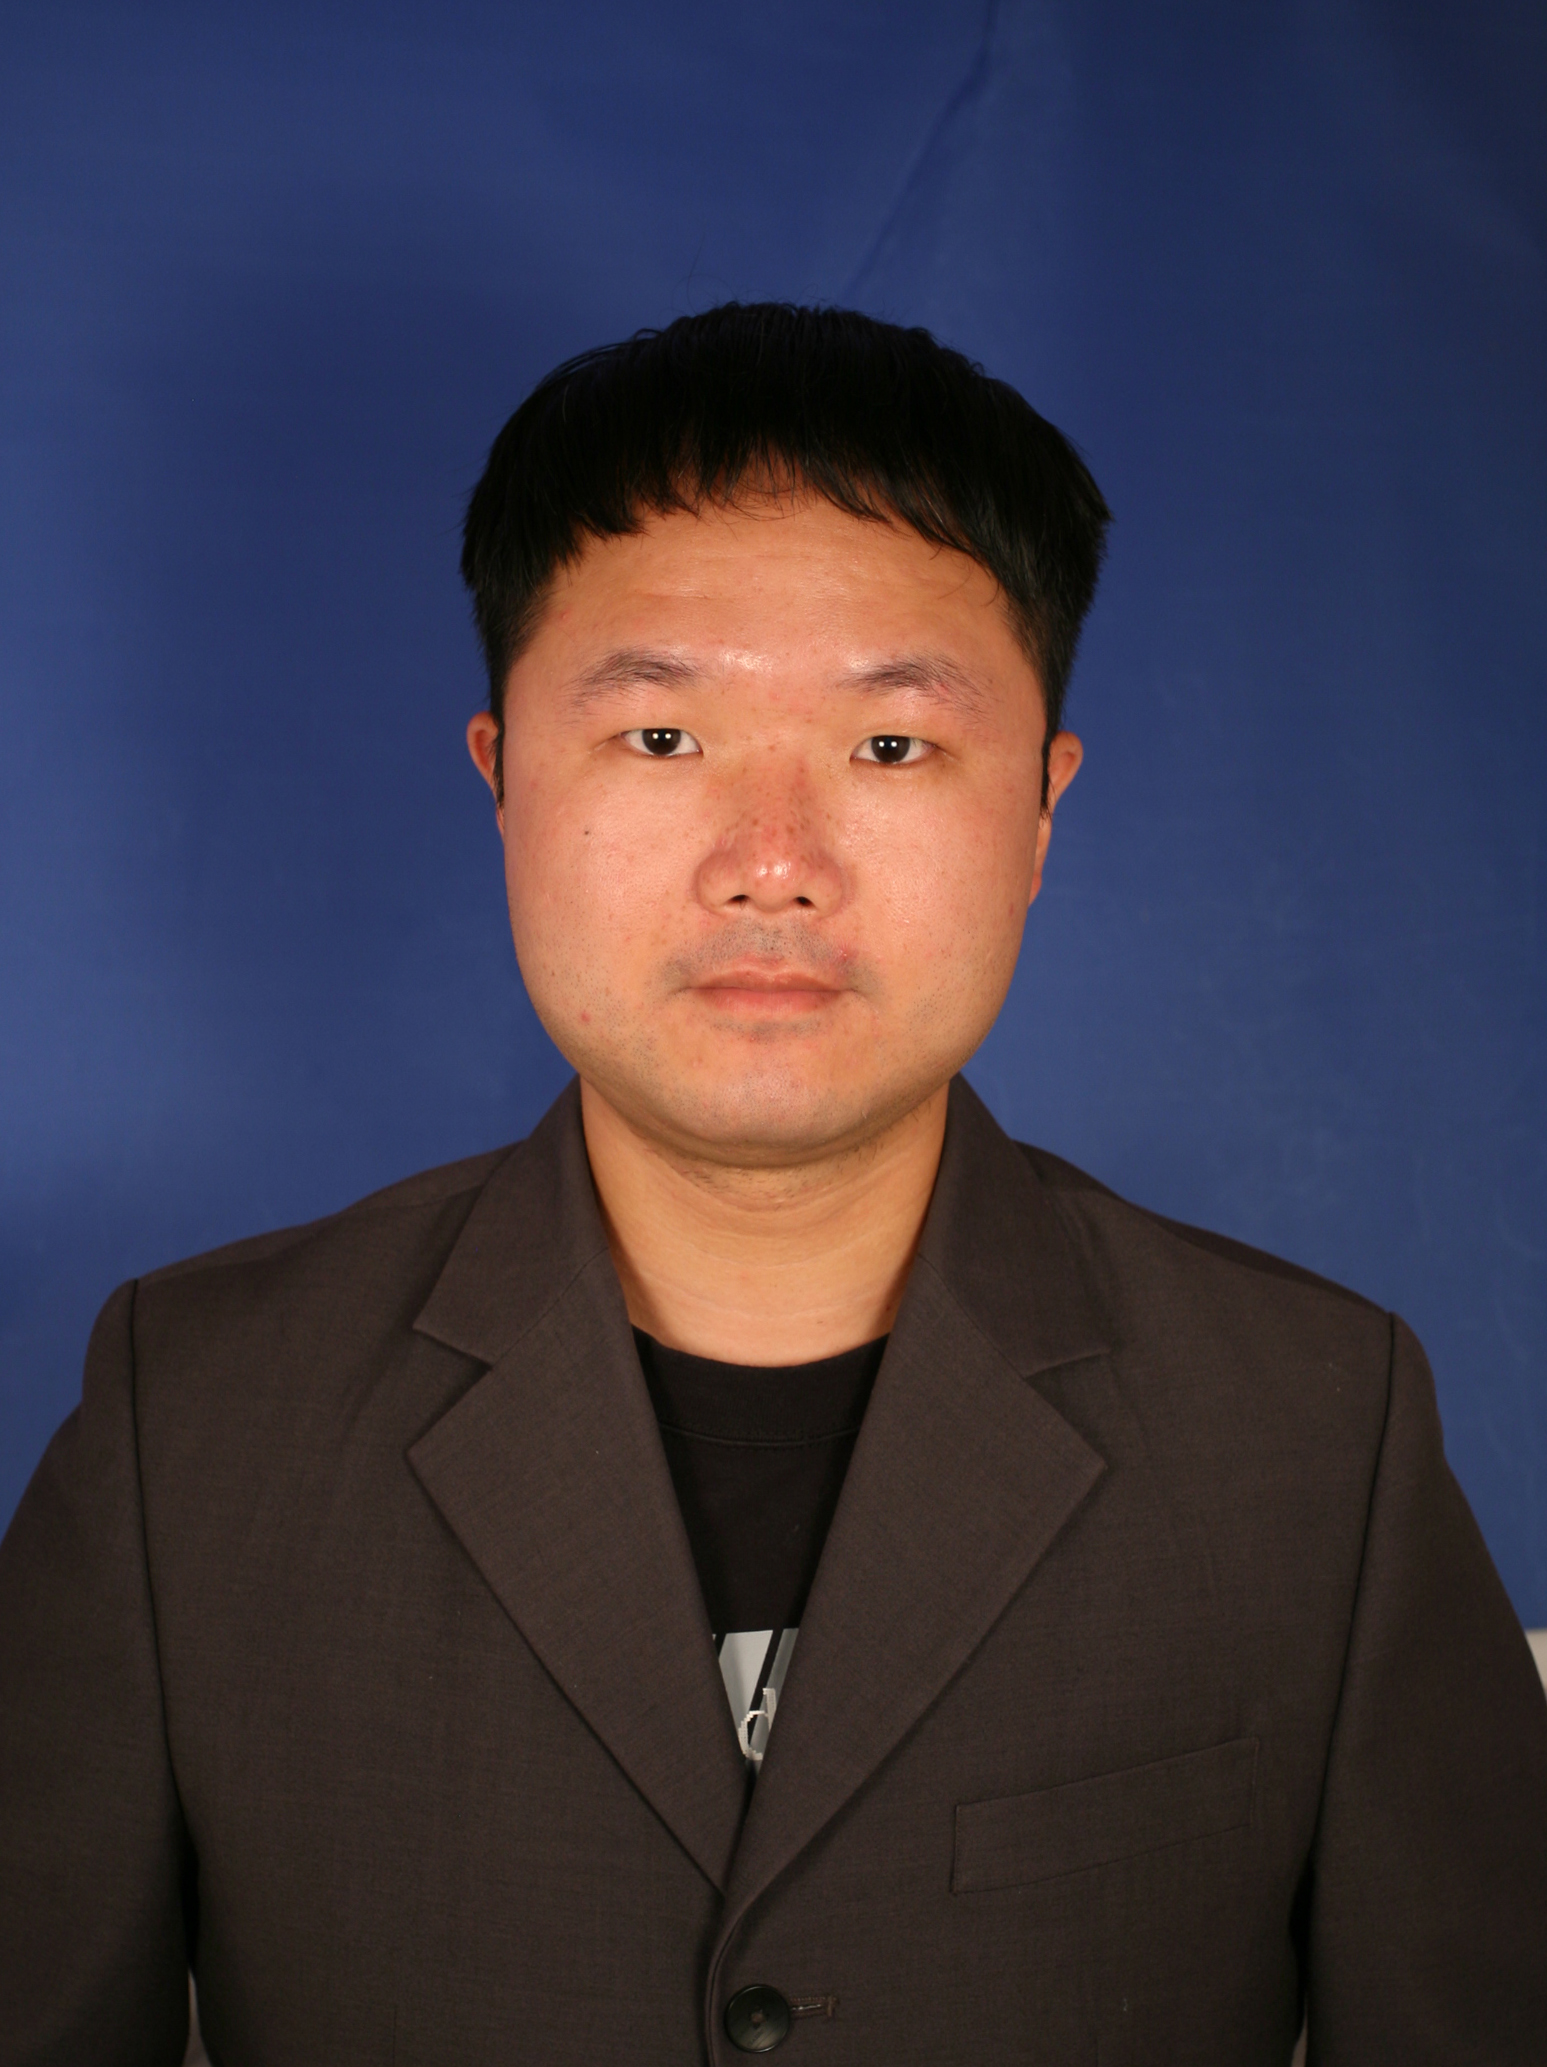
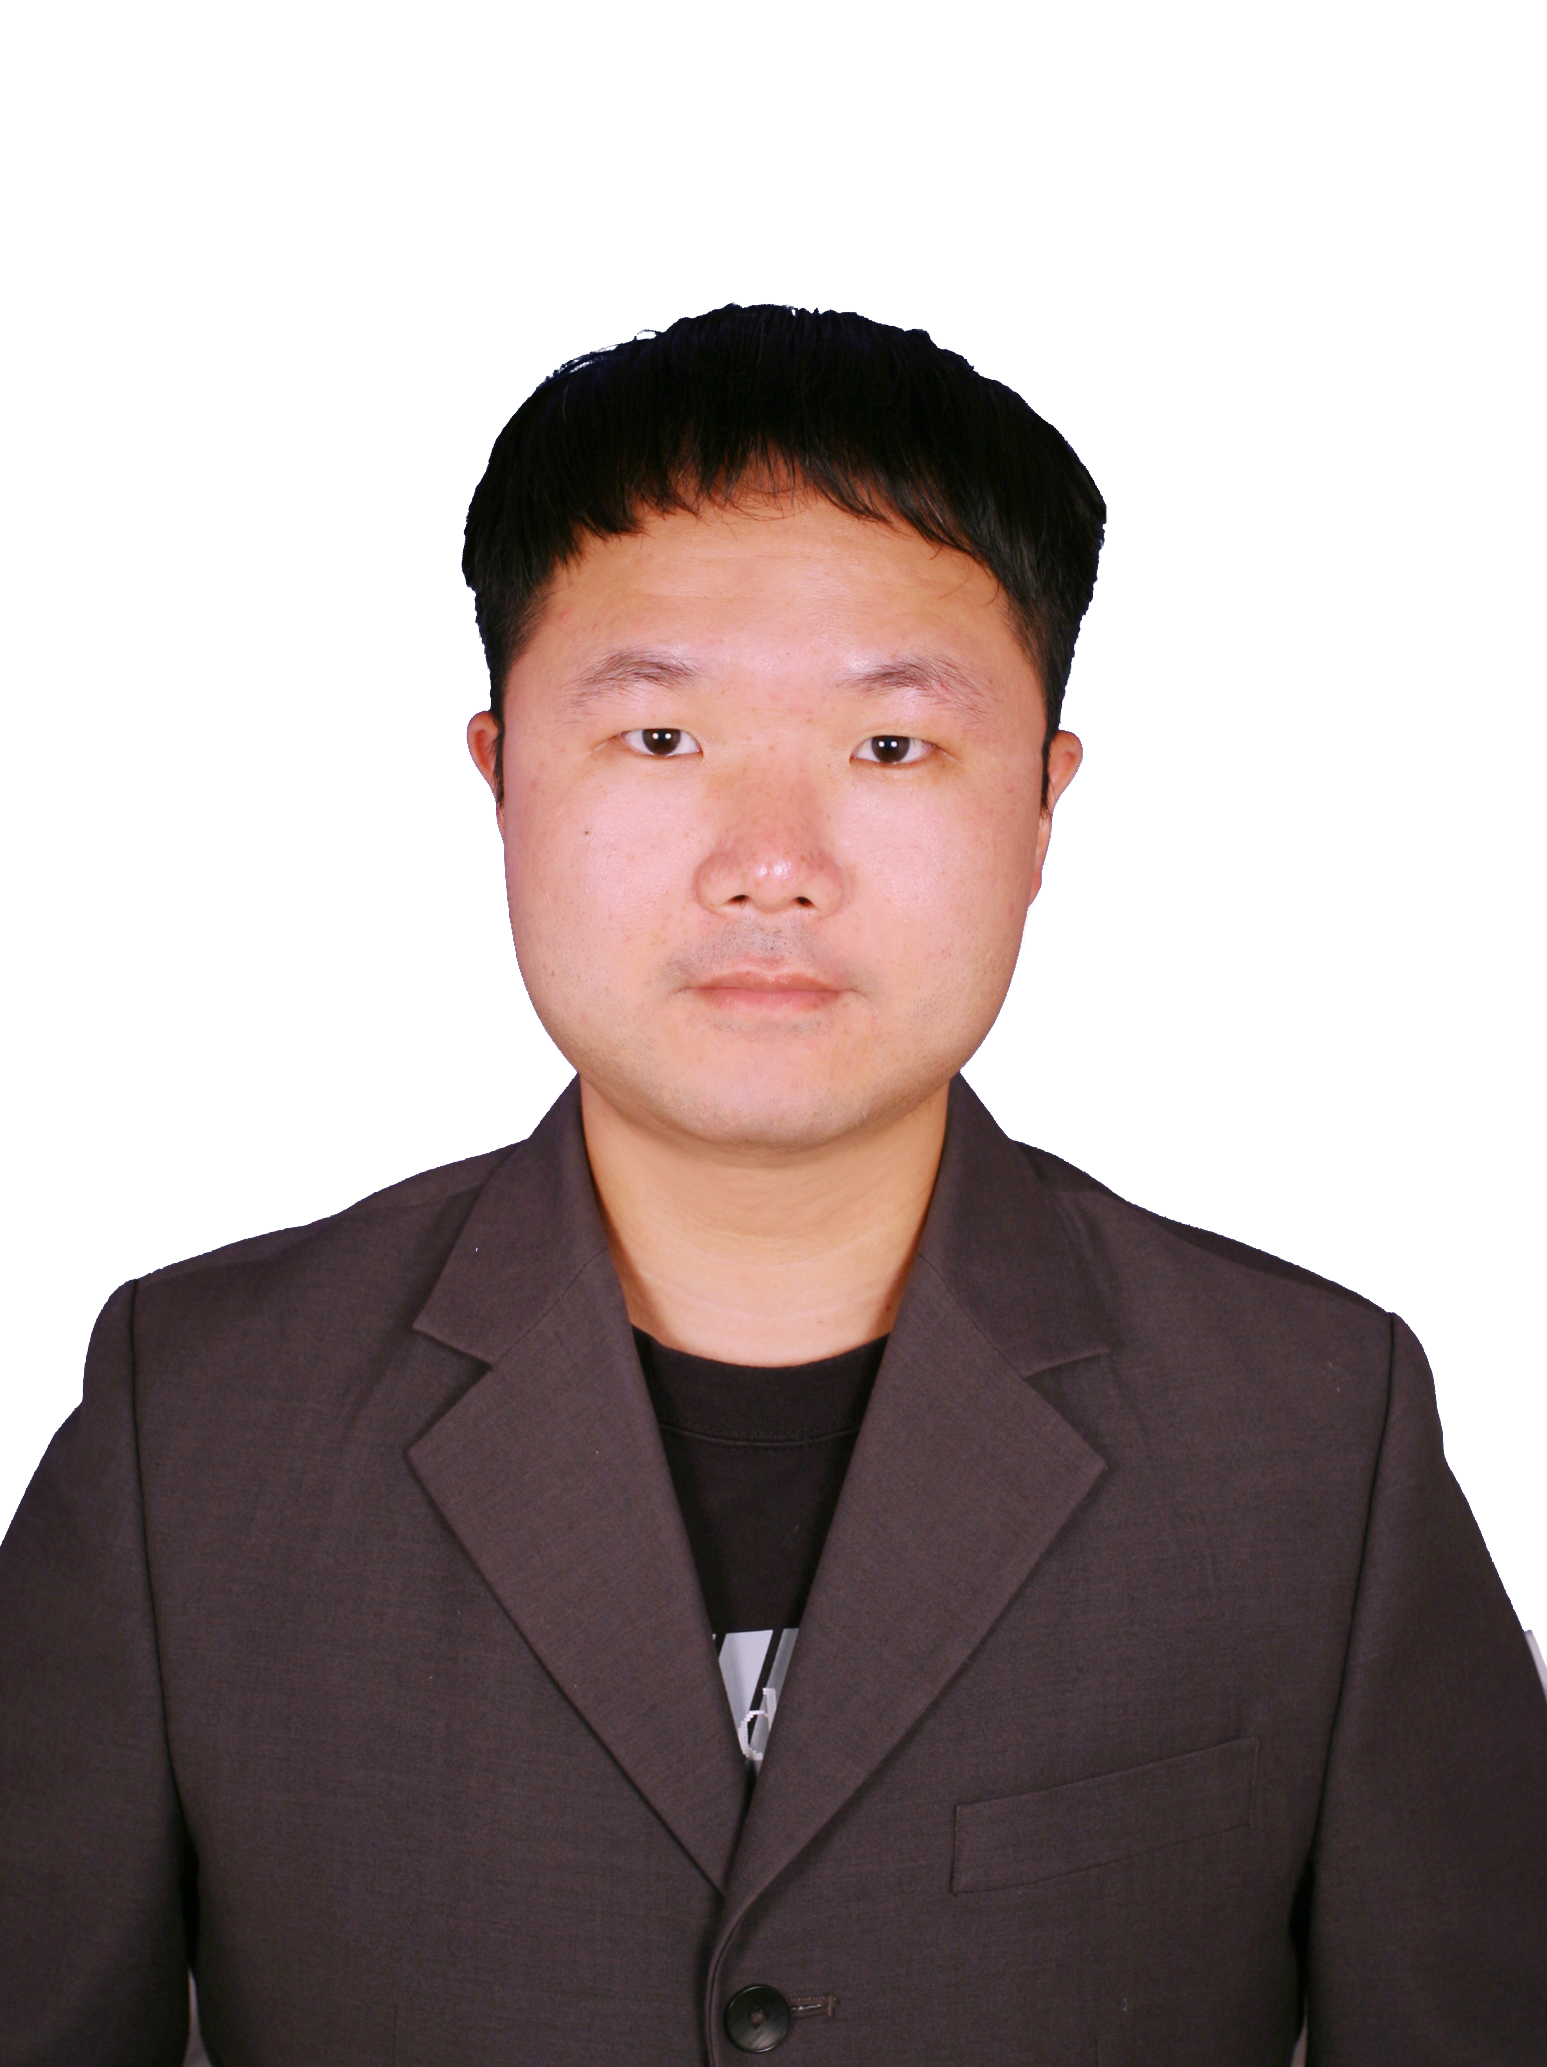
style: enhance bento aesthetics, 3D tilt, and professional profile photo

diff --git a/script.js b/script.js
@@ -1,6 +1,24 @@
 // script.js - Premium Interactive Personal Portfolio Behaviors
 
-// 1. Language Toggle & Initialization
+// 1. Typewriter Animation Helper
+function runTypewriter(el, text) {
+  el.textContent = "";
+  let i = 0;
+  if (el.typewriterInterval) {
+    clearInterval(el.typewriterInterval);
+  }
+  
+  el.typewriterInterval = setInterval(() => {
+    if (i < text.length) {
+      el.textContent += text.charAt(i);
+      i++;
+    } else {
+      clearInterval(el.typewriterInterval);
+    }
+  }, 75);
+}
+
+// 2. Language Toggle & Initialization
 function updateLanguage(lang) {
   document.documentElement.setAttribute('data-lang', lang);
   localStorage.setItem('portfolio-lang', lang);
@@ -20,20 +38,29 @@ function updateLanguage(lang) {
     }
   }
 
+  // Target the hero typewriter element specifically
+  const heroLabel = document.querySelector('.hero-card .mono-label');
+
   // Update text content for elements with data-en/data-zh attributes
   document.querySelectorAll('[data-en][data-zh]').forEach(el => {
     const translation = lang === 'en' ? el.getAttribute('data-en') : el.getAttribute('data-zh');
     
-    // For elements with HTML markup inside, or normal text
-    if (el.classList.contains('mono-label') && !translation.startsWith('> ') && !translation.startsWith('// ')) {
-      el.textContent = translation;
+    if (el === heroLabel) {
+      runTypewriter(el, translation);
     } else {
       el.textContent = translation;
     }
   });
+
+  // Reset client detail text back to current language default
+  const detailText = document.querySelector('.client-detail-text');
+  if (detailText) {
+    const defaultText = lang === 'en' ? detailText.getAttribute('data-en') : detailText.getAttribute('data-zh');
+    detailText.textContent = defaultText;
+  }
 }
 
-// Initialize Language on DOM Content Loaded
+// Initialize Language & Interactive Animations on DOM Content Loaded
 document.addEventListener('DOMContentLoaded', () => {
   const savedLang = localStorage.getItem('portfolio-lang') || 'en';
   updateLanguage(savedLang);
@@ -48,20 +75,57 @@ document.addEventListener('DOMContentLoaded', () => {
     });
   }
 
-  // 2. Mouse Tracking Glow Effects
+  // 3. Mouse Tracking Glow & 3D Tilt Effects
   const cards = document.querySelectorAll('.bento-card');
   cards.forEach(card => {
     card.addEventListener('mousemove', (e) => {
       const rect = card.getBoundingClientRect();
       const x = e.clientX - rect.left;
       const y = e.clientY - rect.top;
+      
+      // Calculate 3D perspective rotation (Only for desktop viewports)
+      if (window.innerWidth > 768) {
+        const centerX = rect.width / 2;
+        const centerY = rect.height / 2;
+        const rotateX = -(y - centerY) / (rect.height / 15); // Max ~4 degrees tilt
+        const rotateY = (x - centerX) / (rect.width / 15);
+        
+        card.style.transform = `perspective(1000px) translateY(-5px) rotateX(${rotateX}deg) rotateY(${rotateY}deg)`;
+      } else {
+        card.style.transform = 'translateY(-4px)';
+      }
+      
       card.style.setProperty('--mouse-x', `${x}px`);
       card.style.setProperty('--mouse-y', `${y}px`);
     });
+
+    card.addEventListener('mouseleave', () => {
+      card.style.transform = 'perspective(1000px) translateY(0) rotateX(0) rotateY(0)';
+    });
   });
 
-  // 3. Scroll Reveal Animation (Progressive Enhancement)
-  // Dynamically add data-reveal attribute to bento cards for animation entry
+  // 4. Client List Interactive Tooltips
+  const clientItems = document.querySelectorAll('.client-list li');
+  const detailText = document.querySelector('.client-detail-text');
+  if (detailText && clientItems.length > 0) {
+    clientItems.forEach(item => {
+      item.addEventListener('mouseenter', () => {
+        const lang = document.documentElement.getAttribute('data-lang') || 'en';
+        const tooltip = lang === 'en' ? item.getAttribute('data-tooltip-en') : item.getAttribute('data-tooltip-zh');
+        detailText.textContent = tooltip;
+        detailText.style.color = 'var(--color-eng-accent)';
+      });
+
+      item.addEventListener('mouseleave', () => {
+        const lang = document.documentElement.getAttribute('data-lang') || 'en';
+        const defaultText = lang === 'en' ? detailText.getAttribute('data-en') : detailText.getAttribute('data-zh');
+        detailText.textContent = defaultText;
+        detailText.style.color = '';
+      });
+    });
+  }
+
+  // 5. Scroll Reveal Animation (Progressive Enhancement)
   cards.forEach(card => {
     card.setAttribute('data-reveal', '');
   });
@@ -70,7 +134,6 @@ document.addEventListener('DOMContentLoaded', () => {
   const revealObserver = new IntersectionObserver((entries) => {
     entries.forEach((entry, index) => {
       if (entry.isIntersecting) {
-        // Stagger reveal of cards visible on viewport entry
         setTimeout(() => {
           entry.target.classList.add('visible');
         }, index * 80);
@@ -84,7 +147,7 @@ document.addEventListener('DOMContentLoaded', () => {
 
   revealElements.forEach(el => revealObserver.observe(el));
 
-  // 4. Smooth Anchor Scrolling for Navbar Links
+  // 6. Smooth Anchor Scrolling for Navbar Links
   document.querySelectorAll('.nav-links a').forEach(anchor => {
     anchor.addEventListener('click', function (e) {
       const targetId = this.getAttribute('href');
@@ -93,7 +156,6 @@ document.addEventListener('DOMContentLoaded', () => {
         if (target) {
           e.preventDefault();
           
-          // Calculate header offset for precise scrolling placement
           const headerOffset = 90;
           const elementPosition = target.getBoundingClientRect().top;
           const offsetPosition = elementPosition + window.pageYOffset - headerOffset;

diff --git a/style.css b/style.css
@@ -34,7 +34,9 @@ html {
 
 body {
   font-family: var(--font-primary);
-  background: var(--color-bg);
+  background-color: var(--color-bg);
+  background-image: radial-gradient(rgba(255, 255, 255, 0.025) 1.5px, transparent 1.5px);
+  background-size: 28px 28px;
   color: var(--color-text-primary);
   min-height: 100vh;
   line-height: 1.6;
@@ -233,6 +235,20 @@ body {
   letter-spacing: 0.1em;
   margin-bottom: 1.25rem;
   text-transform: uppercase;
+  display: inline-block;
+  border-right: 2px solid transparent;
+  white-space: nowrap;
+  vertical-align: bottom;
+}
+
+.bento-card:hover .mono-label {
+  border-right-color: currentColor;
+  animation: blink-cursor 0.75s step-end infinite;
+}
+
+@keyframes blink-cursor {
+  from, to { border-color: transparent }
+  50% { border-color: currentColor }
 }
 
 .mono-text {
@@ -497,6 +513,16 @@ body {
   transform: translateY(-2px);
 }
 
+.client-detail-text {
+  min-height: 24px;
+  font-size: 0.82rem;
+  color: var(--color-eng-accent);
+  transition: opacity 0.3s ease;
+  margin-top: 0.8rem;
+  padding-left: 0.25rem;
+  font-weight: 500;
+}
+
 /* 6. Social Card Specifics */
 .social-layout h3 {
   font-size: 1.4rem;
@@ -606,14 +632,14 @@ body {
 /* Scroll reveal helper class */
 [data-reveal] {
   opacity: 0;
-  transform: translateY(24px);
+  transform: translateY(24px) scale(0.975);
   transition: opacity 0.8s cubic-bezier(0.16, 1, 0.3, 1), 
               transform 0.8s cubic-bezier(0.16, 1, 0.3, 1);
 }
 
 [data-reveal].visible {
   opacity: 1;
-  transform: translateY(0);
+  transform: translateY(0) scale(1);
 }
 
 /* ==========================================

diff --git a/index.html b/index.html
@@ -100,12 +100,13 @@
           <h3 data-en="Global Brands" data-zh="服务全球品牌">Global Brands</h3>
           <p class="section-desc" data-en="Delivered premium engineering and signage projects for multinational oil, retail, and design firms." data-zh="为跨国石油、零售及设计巨头交付高品质的工程与标识系统项目。"></p>
           <ul class="client-list">
-            <li><span>NIKE</span></li>
-            <li><span>SHELL</span></li>
-            <li><span>BP</span></li>
-            <li><span>SINOPEC</span></li>
-            <li><span>CALTEX</span></li>
+            <li data-tooltip-en="Delivered retail signage design and product structure PM" data-tooltip-zh="交付零售门店工程标识设计与产品结构项目管理"><span>NIKE</span></li>
+            <li data-tooltip-en="Managed brand visual specs and fuel network engineering" data-tooltip-zh="负责品牌视觉规范及加油站工程协调"><span>SHELL</span></li>
+            <li data-tooltip-en="Coordinated global design programs and site implementations" data-tooltip-zh="协调跨国设计方案并统筹现场落地执行"><span>BP</span></li>
+            <li data-tooltip-en="Standardized corporate identity guidelines & CAD specifications" data-tooltip-zh="制定企业品牌识别系统导则与 CAD 制图规范"><span>SINOPEC</span></li>
+            <li data-tooltip-en="Consulted on local signage engineering and sourcing" data-tooltip-zh="提供本地工程标识制造工艺与采购供应链咨询"><span>CALTEX</span></li>
           </ul>
+          <p class="client-detail-text" data-en="Hover over a client to view project highlights." data-zh="悬浮在品牌上查看合作项目详情。">Hover over a client to view project highlights.</p>
           <p class="mono-text" data-en="Long-term partnership with Minoris (Germany)" data-zh="与德国 Minoris 公司建立长期合作伙伴关系">Partnered with Minoris (Germany)</p>
         </div>
       </article>